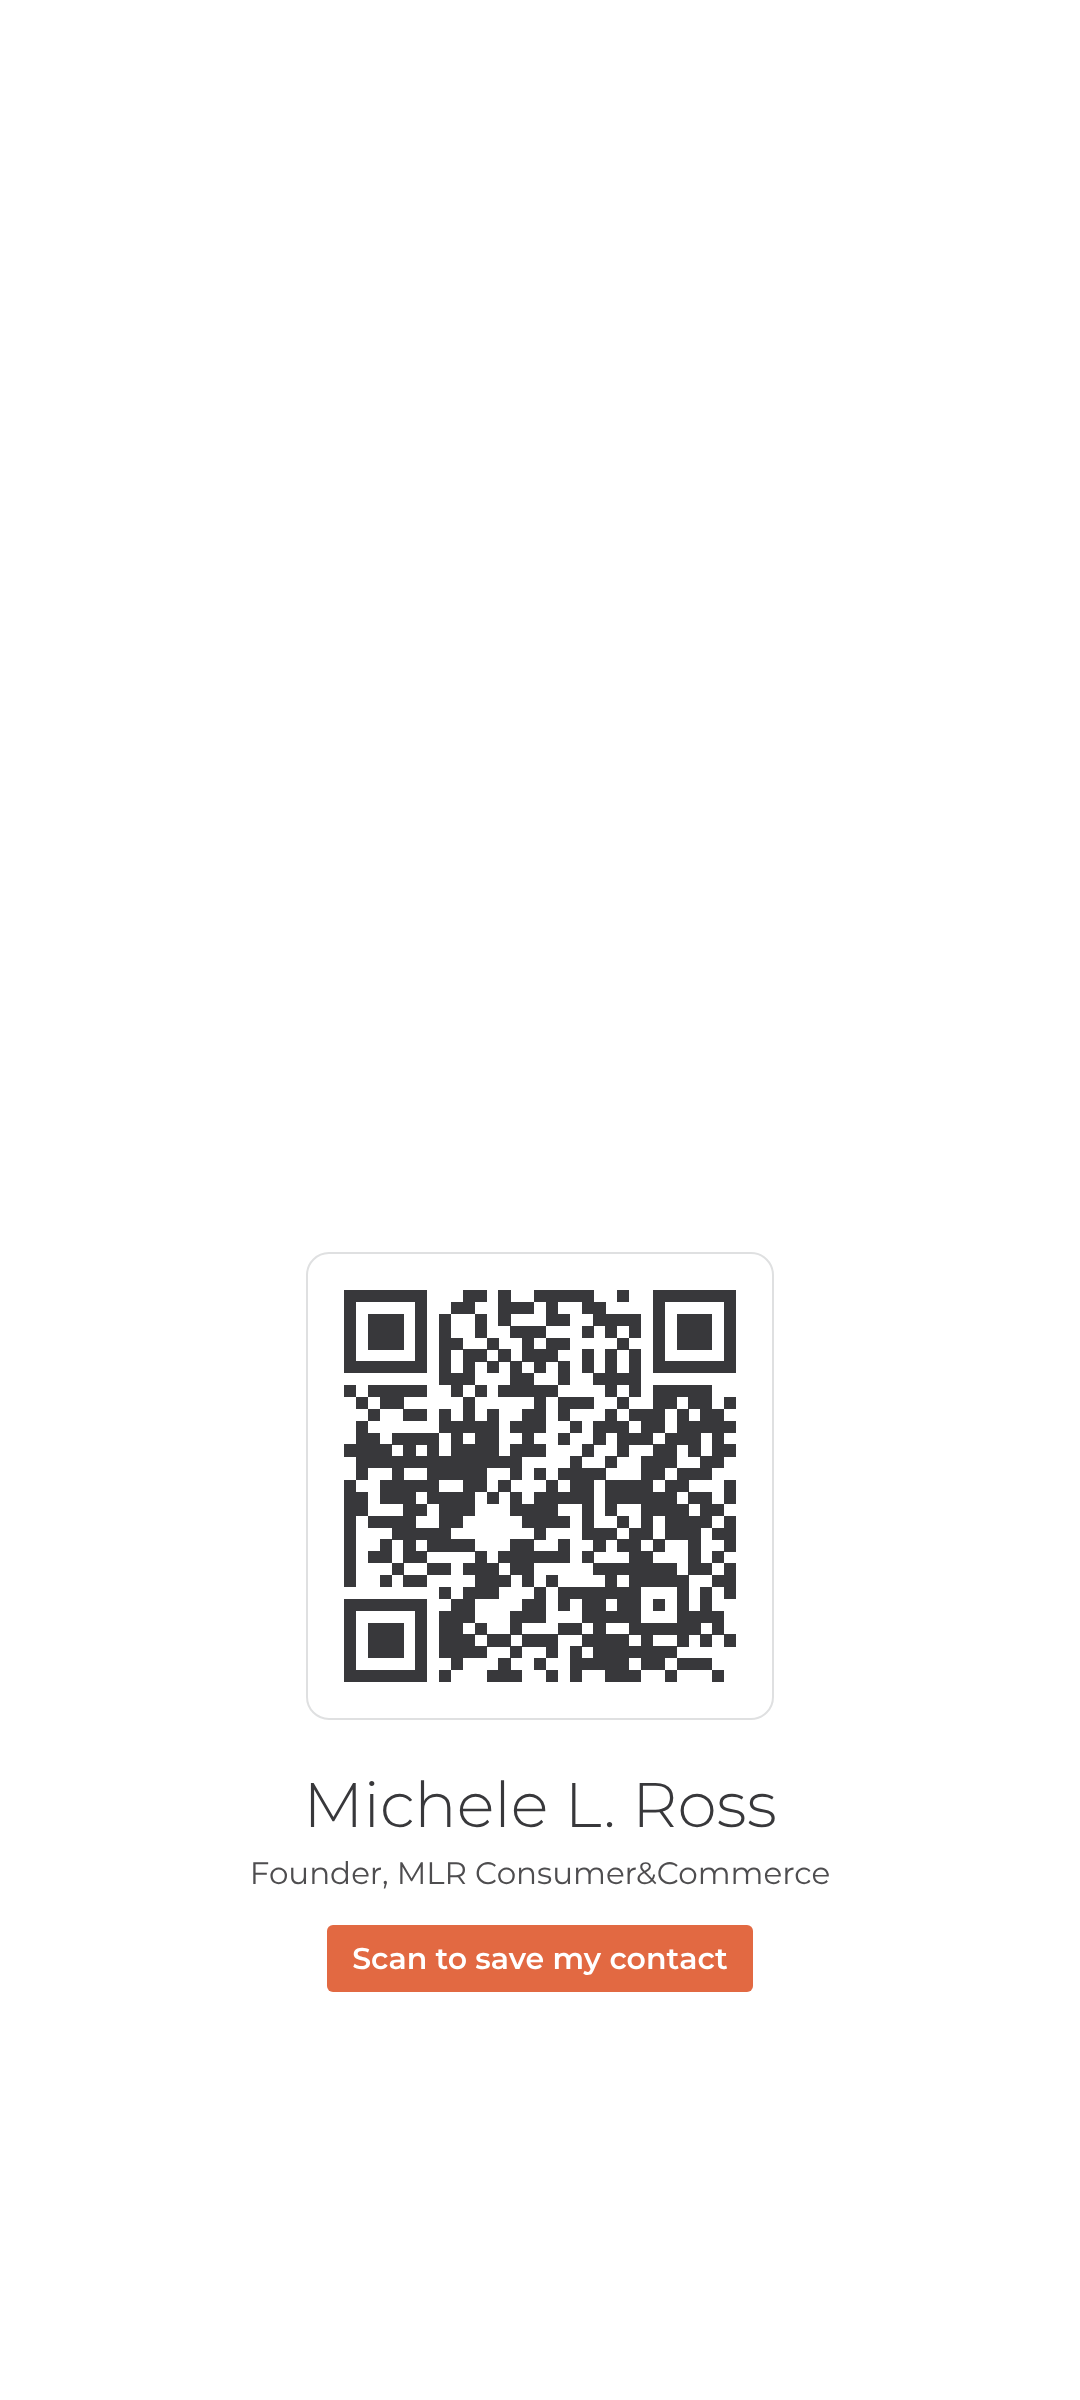
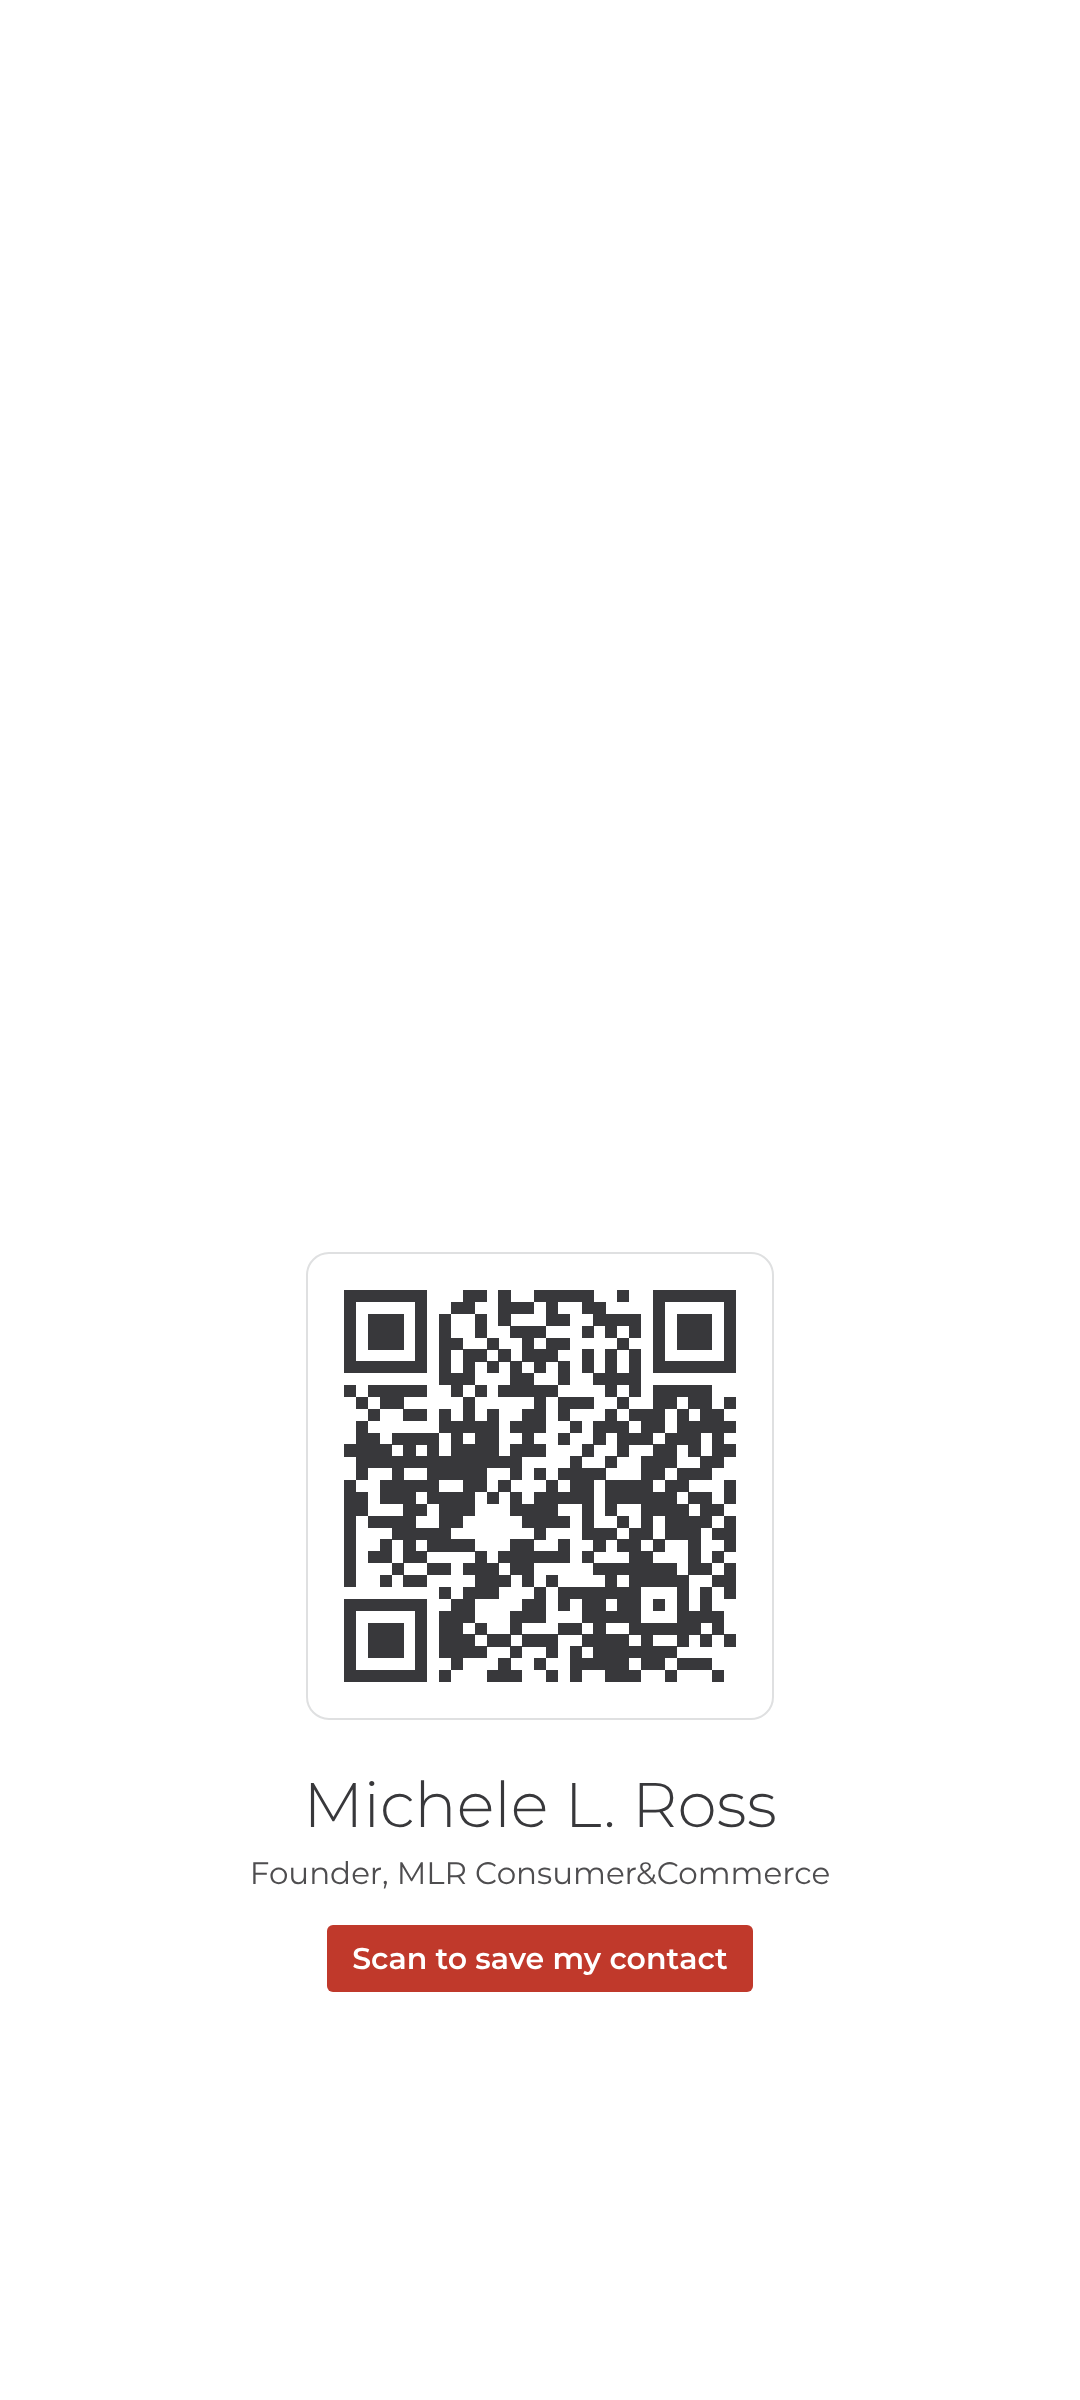
Accent: switch from orange #E26942 to red #C0392B across site, card page, diagrams, collateral
Claude-Session: https://claude.ai/code/session_01Y3UJvKqWwB9vFzEFEmUV8h

Changed region(s): [[0.3056, 0.7812, 0.7028, 0.8438]]

diff --git a/assets/site.css b/assets/site.css
@@ -1,5 +1,5 @@
 /* MLR Consumer&Commerce site
-   Palette from the MLR C&C brand book (v06). One accent only: Smashed Pumpkin, for actions. */
+   Palette from the MLR C&C brand book (v06). One accent only: red #C0392B, for actions (chosen 13 Oct 2026). */
 
 @font-face { font-family: "Montserrat"; font-weight: 300; font-style: normal; font-display: swap; src: url("fonts/montserrat-latin-300-normal.woff2") format("woff2"); }
 @font-face { font-family: "Montserrat"; font-weight: 400; font-style: normal; font-display: swap; src: url("fonts/montserrat-latin-400-normal.woff2") format("woff2"); }
@@ -14,8 +14,8 @@
   --antiflash: #DFE0E1;   /* hairlines */
   --mist: #F4F4F5;        /* quiet panels */
   --white: #FFFFFF;
-  --pumpkin: #E26942;     /* actions only */
-  --pumpkin-deep: #C4502C;
+  --red: #C0392B;     /* actions only, 5.4:1 on white */
+  --red-deep: #9E2B20;
 
   --font: "Montserrat", "Helvetica Neue", Helvetica, Arial, sans-serif;
   --measure: 38rem;
@@ -38,8 +38,8 @@ body {
 }
 img, svg { max-width: 100%; height: auto; display: block; }
 a { color: inherit; text-decoration-thickness: 1px; text-underline-offset: 0.2em; }
-a:hover { color: var(--pumpkin-deep); }
-:focus-visible { outline: 2px solid var(--pumpkin-deep); outline-offset: 3px; border-radius: 2px; }
+a:hover { color: var(--red-deep); }
+:focus-visible { outline: 2px solid var(--red-deep); outline-offset: 3px; border-radius: 2px; }
 p { margin: 0 0 1em; max-width: var(--measure); }
 h1, h2, h3 { margin: 0; font-weight: 300; letter-spacing: -0.015em; line-height: 1.12; }
 h1 { font-size: clamp(2.4rem, 6.2vw, 4.6rem); }
@@ -58,16 +58,16 @@ h3 { font-size: 1.25rem; font-weight: 500; letter-spacing: 0; line-height: 1.3; 
 .lockup span { font-size: .56rem; font-weight: 500; letter-spacing: .24em; color: var(--scorpion); }
 .nav { display: flex; align-items: center; gap: clamp(1rem, 2.5vw, 2.25rem); font-size: .95rem; }
 .nav a { text-decoration: none; }
-.nav a[aria-current="page"] { text-decoration: underline; text-decoration-color: var(--pumpkin); text-decoration-thickness: 2px; text-underline-offset: .45em; }
+.nav a[aria-current="page"] { text-decoration: underline; text-decoration-color: var(--red); text-decoration-thickness: 2px; text-underline-offset: .45em; }
 .nav-toggle { display: none; }
 
 /* Buttons */
 .btn {
   display: inline-block; text-decoration: none; font-weight: 600; font-size: 1.2rem; line-height: 1.2;
-  padding: .95rem 1.5rem; border-radius: 3px; background: var(--pumpkin); color: var(--white);
+  padding: .95rem 1.5rem; border-radius: 3px; background: var(--red); color: var(--white);
   transition: background-color .15s ease;
 }
-.btn:hover { background: var(--pumpkin-deep); color: var(--white); }
+.btn:hover { background: var(--red-deep); color: var(--white); }
 .btn-small { font-size: 1.2rem; padding: .55rem 1rem; }
 .link-quiet { font-weight: 500; }
 .actions { display: flex; flex-wrap: wrap; align-items: center; gap: 1rem 2rem; margin-top: 2.25rem; }
@@ -96,7 +96,7 @@ h3 { font-size: 1.25rem; font-weight: 500; letter-spacing: 0; line-height: 1.3; 
 .forms p { margin: 0; color: var(--scorpion); }
 .signs { margin: 0; padding: 0; list-style: none; }
 .signs li { position: relative; padding: .6rem 0 .6rem 1.6rem; color: var(--shadow); }
-.signs li::before { content: ""; position: absolute; left: 0; top: 1.3rem; width: .7rem; height: 1px; background: var(--pumpkin); }
+.signs li::before { content: ""; position: absolute; left: 0; top: 1.3rem; width: .7rem; height: 1px; background: var(--red); }
 .kicker { font-size: 1rem; font-weight: 500; color: var(--scorpion); margin-bottom: 1rem; }
 
 /* Balance */
@@ -111,10 +111,10 @@ h3 { font-size: 1.25rem; font-weight: 500; letter-spacing: 0; line-height: 1.3; 
 .path { list-style: none; margin: 0; padding: 0; display: grid; grid-template-columns: repeat(6, minmax(0, 1fr)); counter-reset: step; border-top: 1px solid var(--shadow); }
 .path li { counter-increment: step; padding: 1.4rem 1.25rem 0 0; }
 .path li::before { content: counter(step); display: block; font-size: 2.6rem; font-weight: 300; line-height: 1; color: var(--silver); margin-bottom: 1.1rem; }
-.path li:first-child::before { color: var(--pumpkin); }
+.path li:first-child::before { color: var(--red); }
 .path h3 { font-size: 1.05rem; margin-bottom: .4rem; }
 .path p { font-size: .95rem; color: var(--scorpion); margin: 0; }
-.path .free { font-weight: 600; color: var(--pumpkin-deep); }
+.path .free { font-weight: 600; color: var(--red-deep); }
 
 /* Proof */
 .cases { display: grid; grid-template-columns: 1fr 1fr; gap: clamp(2rem, 5vw, 4.5rem); }
@@ -135,10 +135,10 @@ h3 { font-size: 1.25rem; font-weight: 500; letter-spacing: 0; line-height: 1.3; 
 .step { counter-increment: step; display: grid; grid-template-columns: 5rem minmax(0, 1fr) minmax(0, 1.15fr); gap: 1rem clamp(1.5rem, 4vw, 4rem); padding: 2.5rem 0; border-top: 1px solid var(--antiflash); }
 .step:last-child { border-bottom: 1px solid var(--antiflash); }
 .step::before { content: counter(step); font-size: 3rem; font-weight: 300; line-height: 1; color: var(--silver); }
-.step:first-child::before { color: var(--pumpkin); }
+.step:first-child::before { color: var(--red); }
 .step h2 { font-size: clamp(1.5rem, 2.6vw, 2rem); }
 .step .tag { display: block; font-size: .95rem; font-weight: 500; color: var(--scorpion); margin-top: .6rem; }
-.step .tag.free { color: var(--pumpkin-deep); }
+.step .tag.free { color: var(--red-deep); }
 .step dl { margin: 0; }
 .step dt { font-weight: 600; font-size: .9rem; margin-top: 1rem; }
 .step dt:first-child { margin-top: 0; }

diff --git a/how-we-work.html b/how-we-work.html
@@ -56,9 +56,9 @@
   <!-- sides -->
   <path d="M300,250 L500,560 L700,250" fill="none" stroke="#38383B" stroke-width="4" stroke-linejoin="round" stroke-linecap="round"/>
   <!-- top edge: the promise, broken by its label -->
-  <line x1="300" y1="250" x2="410" y2="250" stroke="#E26942" stroke-width="4" stroke-linecap="round"/>
-  <line x1="590" y1="250" x2="700" y2="250" stroke="#E26942" stroke-width="4" stroke-linecap="round"/>
-  <text x="500" y="259" text-anchor="middle" font-size="28" font-weight="700" fill="#E26942">Promise</text>
+  <line x1="300" y1="250" x2="410" y2="250" stroke="#C0392B" stroke-width="4" stroke-linecap="round"/>
+  <line x1="590" y1="250" x2="700" y2="250" stroke="#C0392B" stroke-width="4" stroke-linecap="round"/>
+  <text x="500" y="259" text-anchor="middle" font-size="28" font-weight="700" fill="#C0392B">Promise</text>
   <!-- delivery arrows -->
   <line x1="442" y1="553" x2="302" y2="336" stroke="#A8A6A1" stroke-width="3" marker-end="url(#ah)"/>
   <line x1="558" y1="553" x2="698" y2="336" stroke="#A8A6A1" stroke-width="3" marker-end="url(#ah)"/>
@@ -74,7 +74,7 @@
   <text x="500" y="612" text-anchor="middle" font-size="30" font-weight="700" fill="#38383B">Organization</text>
   <text x="500" y="642" text-anchor="middle" font-size="19" fill="#4E4D4F">built to deliver the promise</text>
   <!-- caption -->
-  <text x="500" y="725" text-anchor="middle" font-size="22" font-weight="700" letter-spacing="2" fill="#E26942">THE FOUNDATIONAL TRIFECTA</text>
+  <text x="500" y="725" text-anchor="middle" font-size="22" font-weight="700" letter-spacing="2" fill="#C0392B">THE FOUNDATIONAL TRIFECTA</text>
   <text x="500" y="760" text-anchor="middle" font-size="22" fill="#38383B">The promise sets you apart. The organization is built to keep it.</text>
 </svg></figure>
   </div>
@@ -103,7 +103,7 @@
     <figure class="wide-figure"><svg xmlns="http://www.w3.org/2000/svg" viewBox="0 0 1420 450" font-family="'Montserrat', 'Helvetica Neue', Helvetica, Arial, sans-serif" xmlns:c2pa="http://c2pa.org/manifest">
   <defs><marker id="ah" viewBox="0 0 10 10" refX="8" refY="5" markerWidth="7" markerHeight="7" orient="auto-start-reverse"><path d="M0,0 L10,5 L0,10 z" fill="#A8A6A1"/></marker></defs>
   <rect width="1420" height="450" fill="#FFFFFF"/>
-  <g font-size="21" font-weight="700" fill="#E26942" text-anchor="middle" letter-spacing="1.5">
+  <g font-size="21" font-weight="700" fill="#C0392B" text-anchor="middle" letter-spacing="1.5">
     <text x="270" y="34">SET THE FOUNDATION</text>
     <text x="900" y="34">BUILD THE BUSINESS TO DELIVER IT</text>
   </g>
@@ -125,8 +125,8 @@
     <path d="M1290,210 H1340 V375 H630 V338" fill="none" stroke="#A8A6A1" stroke-width="2.5" stroke-dasharray="8 7" marker-end="url(#ah)"/>
     <text x="985" y="397" text-anchor="middle" font-size="16" fill="#4E4D4F">each year, the cycle returns to Chart</text>
     <g font-size="22" font-weight="700" text-anchor="middle" fill="#FFFFFF">
-      <circle cx="150" cy="210" r="22" fill="#E26942"/><text x="150" y="218">1</text>
-      <circle cx="390" cy="210" r="22" fill="#E26942"/><text x="390" y="218">2</text>
+      <circle cx="150" cy="210" r="22" fill="#C0392B"/><text x="150" y="218">1</text>
+      <circle cx="390" cy="210" r="22" fill="#C0392B"/><text x="390" y="218">2</text>
       <circle cx="630" cy="210" r="22" fill="#38383B"/><text x="630" y="218">3</text>
       <circle cx="870" cy="210" r="22" fill="#38383B"/><text x="870" y="218">4</text>
       <circle cx="1140" cy="160" r="22" fill="#38383B"/><text x="1140" y="168">5</text>

diff --git a/mlr-bio/index.html b/mlr-bio/index.html
@@ -21,7 +21,7 @@
 @font-face { font-family: "Montserrat"; font-weight: 400; font-display: swap; src: url("../assets/fonts/montserrat-latin-400-normal.woff2") format("woff2"); }
 @font-face { font-family: "Montserrat"; font-weight: 500; font-display: swap; src: url("../assets/fonts/montserrat-latin-500-normal.woff2") format("woff2"); }
 @font-face { font-family: "Montserrat"; font-weight: 600; font-display: swap; src: url("../assets/fonts/montserrat-latin-600-normal.woff2") format("woff2"); }
-:root { --shadow:#38383B; --scorpion:#4E4D4F; --muted:#6E6D70; --antiflash:#DFE0E1; --mist:#F4F4F5; --pumpkin:#E26942; --deep:#C4502C; }
+:root { --shadow:#38383B; --scorpion:#4E4D4F; --muted:#6E6D70; --antiflash:#DFE0E1; --mist:#F4F4F5; --red:#C0392B; --deep:#9E2B20; }
 * { box-sizing: border-box; }
 html, body { margin: 0; background: #fff; color: var(--shadow); font-family: "Montserrat", "Helvetica Neue", Arial, sans-serif; -webkit-text-size-adjust: 100%; }
 main { max-width: 26rem; margin: 0 auto; padding: 3rem 1.25rem 2.5rem; min-height: 100svh; display: flex; flex-direction: column; }
@@ -35,9 +35,9 @@ h1 { font-weight: 300; font-size: 2rem; line-height: 1.15; margin: 0; letter-spa
 .line { margin: 1.25rem 0 0; color: var(--scorpion); font-size: .95rem; line-height: 1.55; }
 .links { list-style: none; padding: 0; margin: 2.25rem 0 0; display: grid; gap: .75rem; }
 .links a { display: flex; justify-content: space-between; align-items: center; gap: 1rem; padding: 1.05rem 1.15rem; border: 1px solid var(--antiflash); border-radius: 3px; text-decoration: none; color: var(--shadow); font-weight: 500; font-size: 1rem; }
-.links a::after { content: "\2192"; color: var(--pumpkin); font-weight: 400; }
-.links a:hover { border-color: var(--pumpkin); }
-.links a.primary { background: var(--pumpkin); border-color: var(--pumpkin); color: #fff; font-weight: 600; font-size: 1.2rem; }
+.links a::after { content: "\2192"; color: var(--red); font-weight: 400; }
+.links a:hover { border-color: var(--red); }
+.links a.primary { background: var(--red); border-color: var(--red); color: #fff; font-weight: 600; font-size: 1.2rem; }
 .links a.primary::after { content: "\2193"; color: #fff; }
 .links a.primary:hover { background: var(--deep); border-color: var(--deep); }
 a:focus-visible { outline: 2px solid var(--deep); outline-offset: 3px; }

diff --git a/index.html b/index.html
@@ -85,9 +85,9 @@
   <!-- sides -->
   <path d="M300,250 L500,560 L700,250" fill="none" stroke="#38383B" stroke-width="4" stroke-linejoin="round" stroke-linecap="round"/>
   <!-- top edge: the promise, broken by its label -->
-  <line x1="300" y1="250" x2="410" y2="250" stroke="#E26942" stroke-width="4" stroke-linecap="round"/>
-  <line x1="590" y1="250" x2="700" y2="250" stroke="#E26942" stroke-width="4" stroke-linecap="round"/>
-  <text x="500" y="259" text-anchor="middle" font-size="28" font-weight="700" fill="#E26942">Promise</text>
+  <line x1="300" y1="250" x2="410" y2="250" stroke="#C0392B" stroke-width="4" stroke-linecap="round"/>
+  <line x1="590" y1="250" x2="700" y2="250" stroke="#C0392B" stroke-width="4" stroke-linecap="round"/>
+  <text x="500" y="259" text-anchor="middle" font-size="28" font-weight="700" fill="#C0392B">Promise</text>
   <!-- delivery arrows -->
   <line x1="442" y1="553" x2="302" y2="336" stroke="#A8A6A1" stroke-width="3" marker-end="url(#ah)"/>
   <line x1="558" y1="553" x2="698" y2="336" stroke="#A8A6A1" stroke-width="3" marker-end="url(#ah)"/>
@@ -103,7 +103,7 @@
   <text x="500" y="612" text-anchor="middle" font-size="30" font-weight="700" fill="#38383B">Organization</text>
   <text x="500" y="642" text-anchor="middle" font-size="19" fill="#4E4D4F">built to deliver the promise</text>
   <!-- caption -->
-  <text x="500" y="725" text-anchor="middle" font-size="22" font-weight="700" letter-spacing="2" fill="#E26942">THE FOUNDATIONAL TRIFECTA</text>
+  <text x="500" y="725" text-anchor="middle" font-size="22" font-weight="700" letter-spacing="2" fill="#C0392B">THE FOUNDATIONAL TRIFECTA</text>
   <text x="500" y="760" text-anchor="middle" font-size="22" fill="#38383B">The promise sets you apart. The organization is built to keep it.</text>
 </svg>
     </figure>

diff --git a/collateral/email-signature.html b/collateral/email-signature.html
@@ -25,7 +25,7 @@
   <tr><td style="font-size:14px;line-height:20px;font-weight:bold;color:#38383B;">Michele L. Ross</td></tr>
   <tr><td style="font-size:13px;line-height:19px;color:#4E4D4F;padding:0 0 8px 0;">Founder, MLR Consumer&amp;Commerce</td></tr>
   <tr><td style="font-size:13px;line-height:19px;color:#4E4D4F;"><a href="tel:+393475820434" style="color:#4E4D4F;text-decoration:none;">+39 347 582 0434</a>&nbsp;&nbsp;|&nbsp;&nbsp;<a href="https://www.consumerandcommerce.global" style="color:#4E4D4F;text-decoration:none;">consumerandcommerce.global</a></td></tr>
-  <tr><td style="font-size:13px;line-height:19px;padding:4px 0 0 0;"><a href="https://calendar.app.google/pUPfxcmEGfwEiBRHA" style="color:#C4502C;font-weight:bold;text-decoration:none;">Book a call</a>&nbsp;&nbsp;|&nbsp;&nbsp;<a href="https://www.consumerandcommerce.global/mlr-bio" style="color:#C4502C;font-weight:bold;text-decoration:none;">Save my contact</a>&nbsp;&nbsp;|&nbsp;&nbsp;<a href="https://www.linkedin.com/company/mlr-consumer-and-commerce/" style="color:#C4502C;font-weight:bold;text-decoration:none;">LinkedIn</a></td></tr>
+  <tr><td style="font-size:13px;line-height:19px;padding:4px 0 0 0;"><a href="https://calendar.app.google/pUPfxcmEGfwEiBRHA" style="color:#C0392B;font-weight:bold;text-decoration:none;">Book a call</a>&nbsp;&nbsp;|&nbsp;&nbsp;<a href="https://www.consumerandcommerce.global/mlr-bio" style="color:#C0392B;font-weight:bold;text-decoration:none;">Save my contact</a>&nbsp;&nbsp;|&nbsp;&nbsp;<a href="https://www.linkedin.com/company/mlr-consumer-and-commerce/" style="color:#C0392B;font-weight:bold;text-decoration:none;">LinkedIn</a></td></tr>
 </table>
 <!-- SIGNATURE END -->
   </div>
